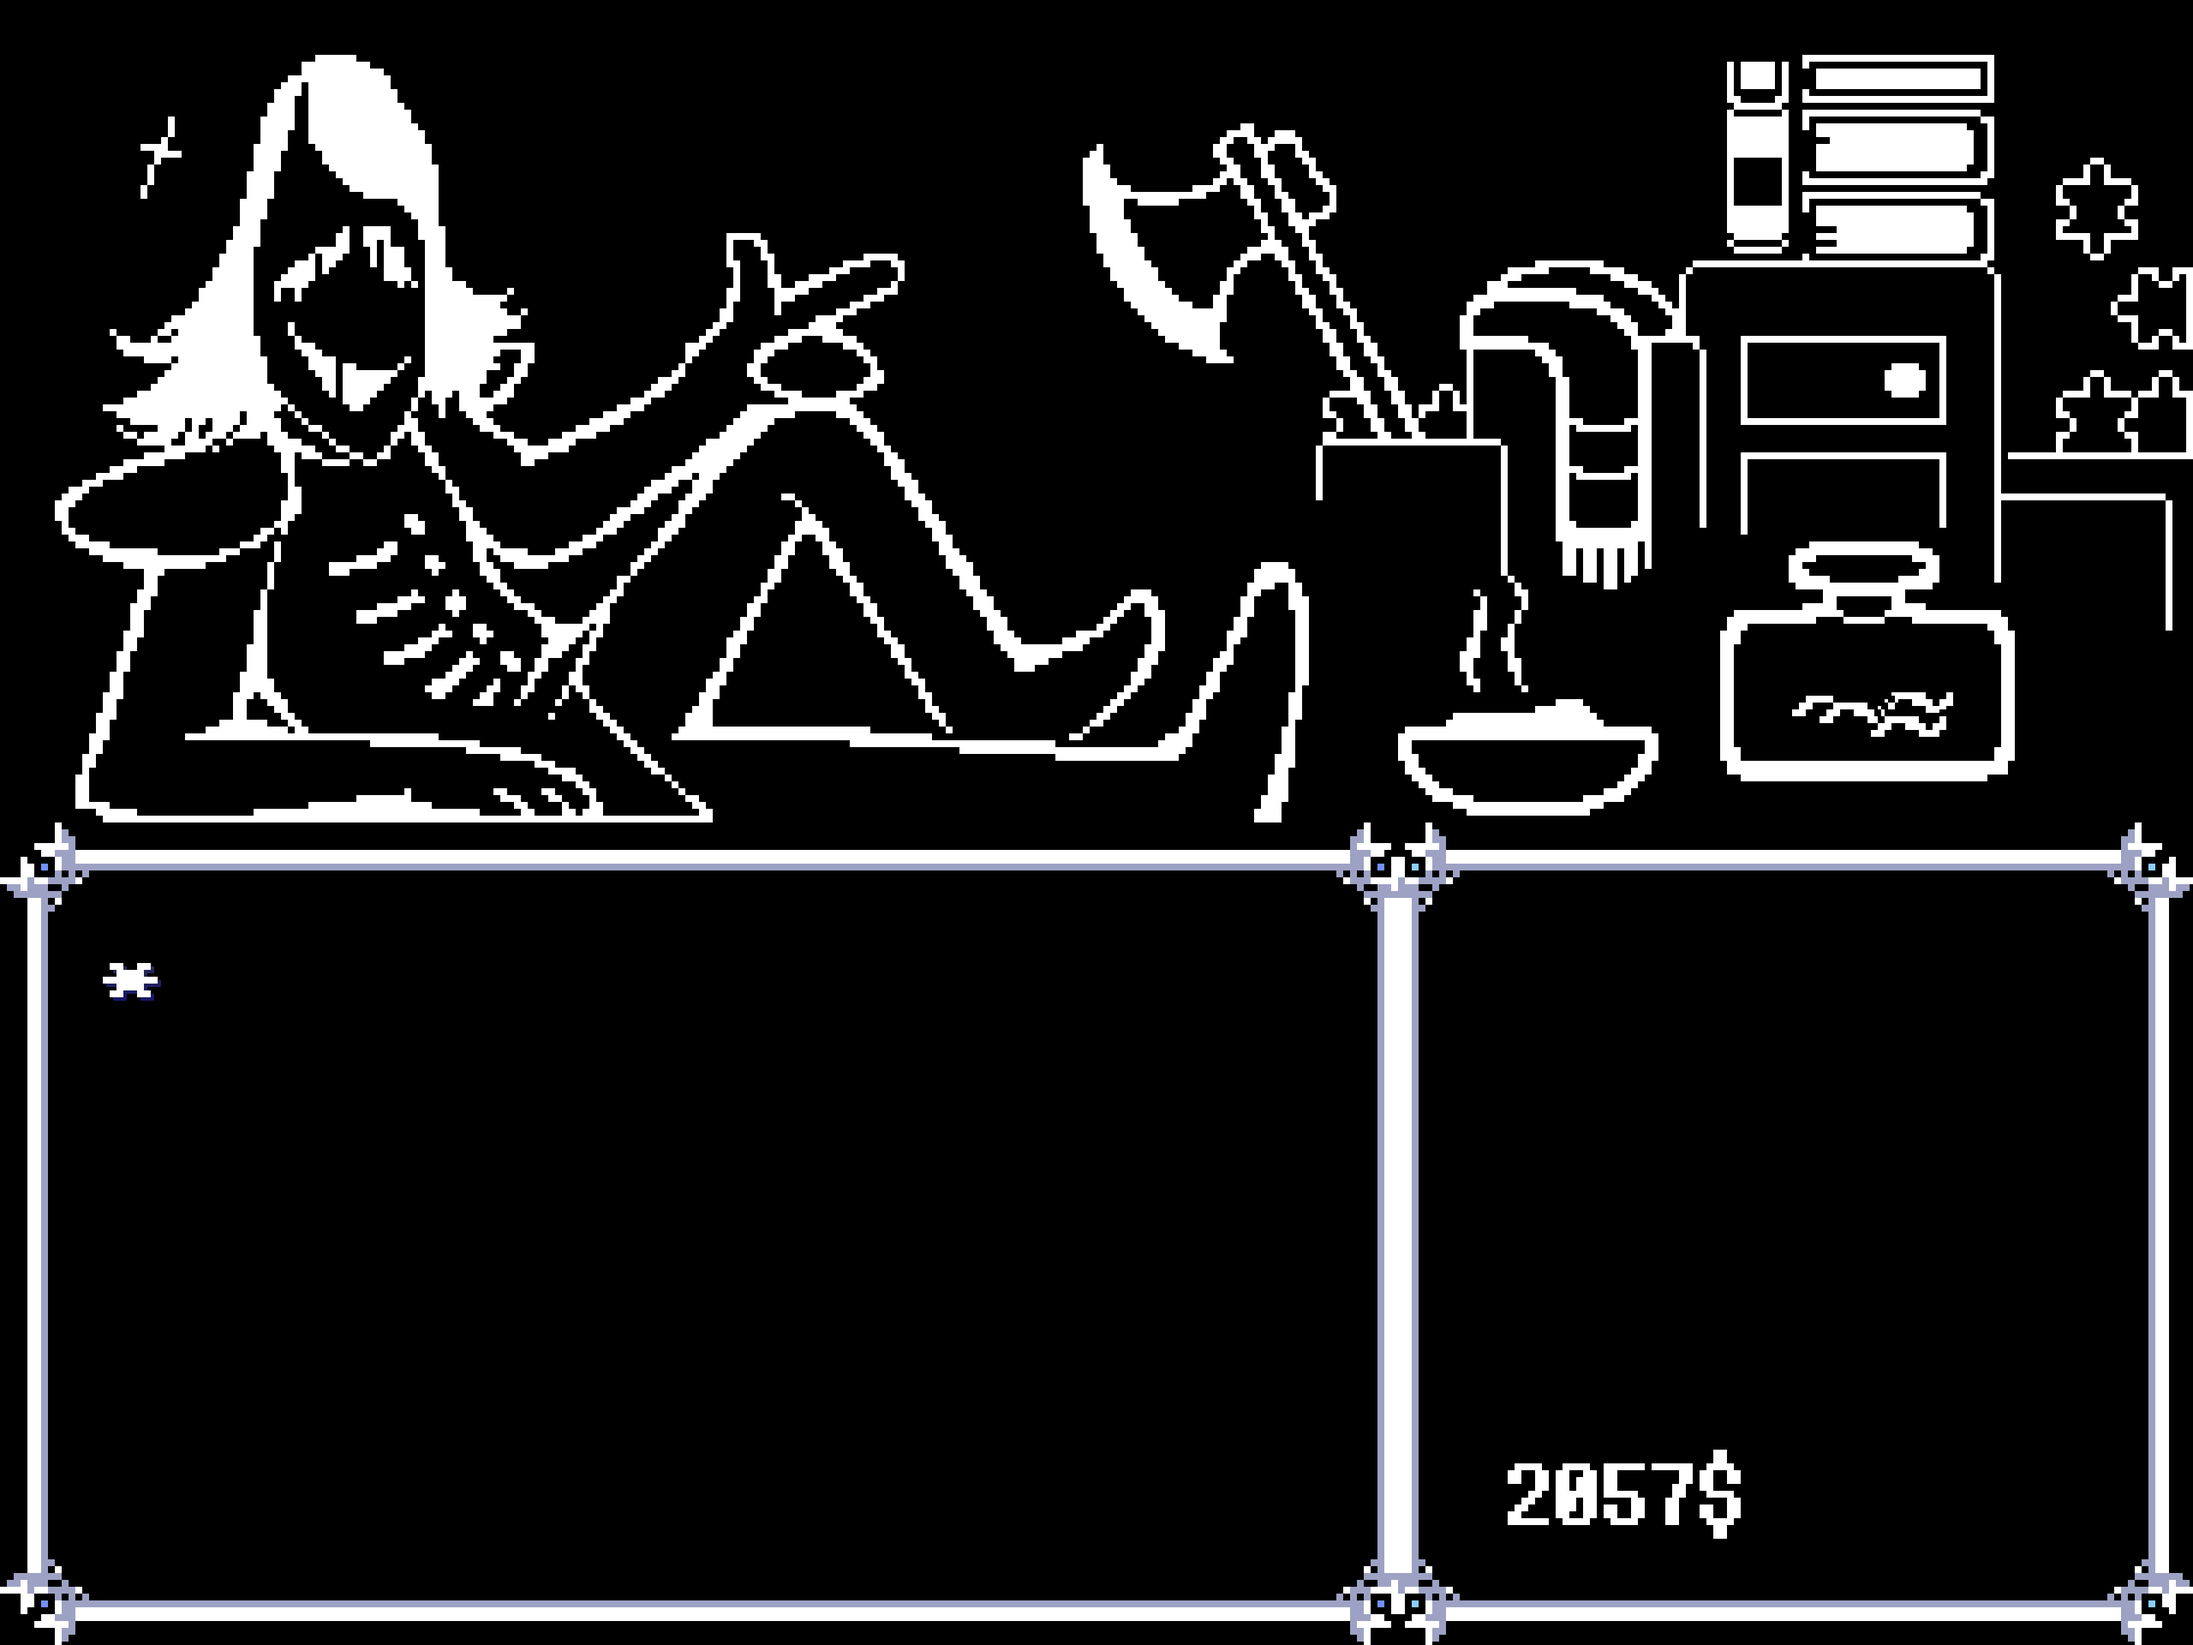
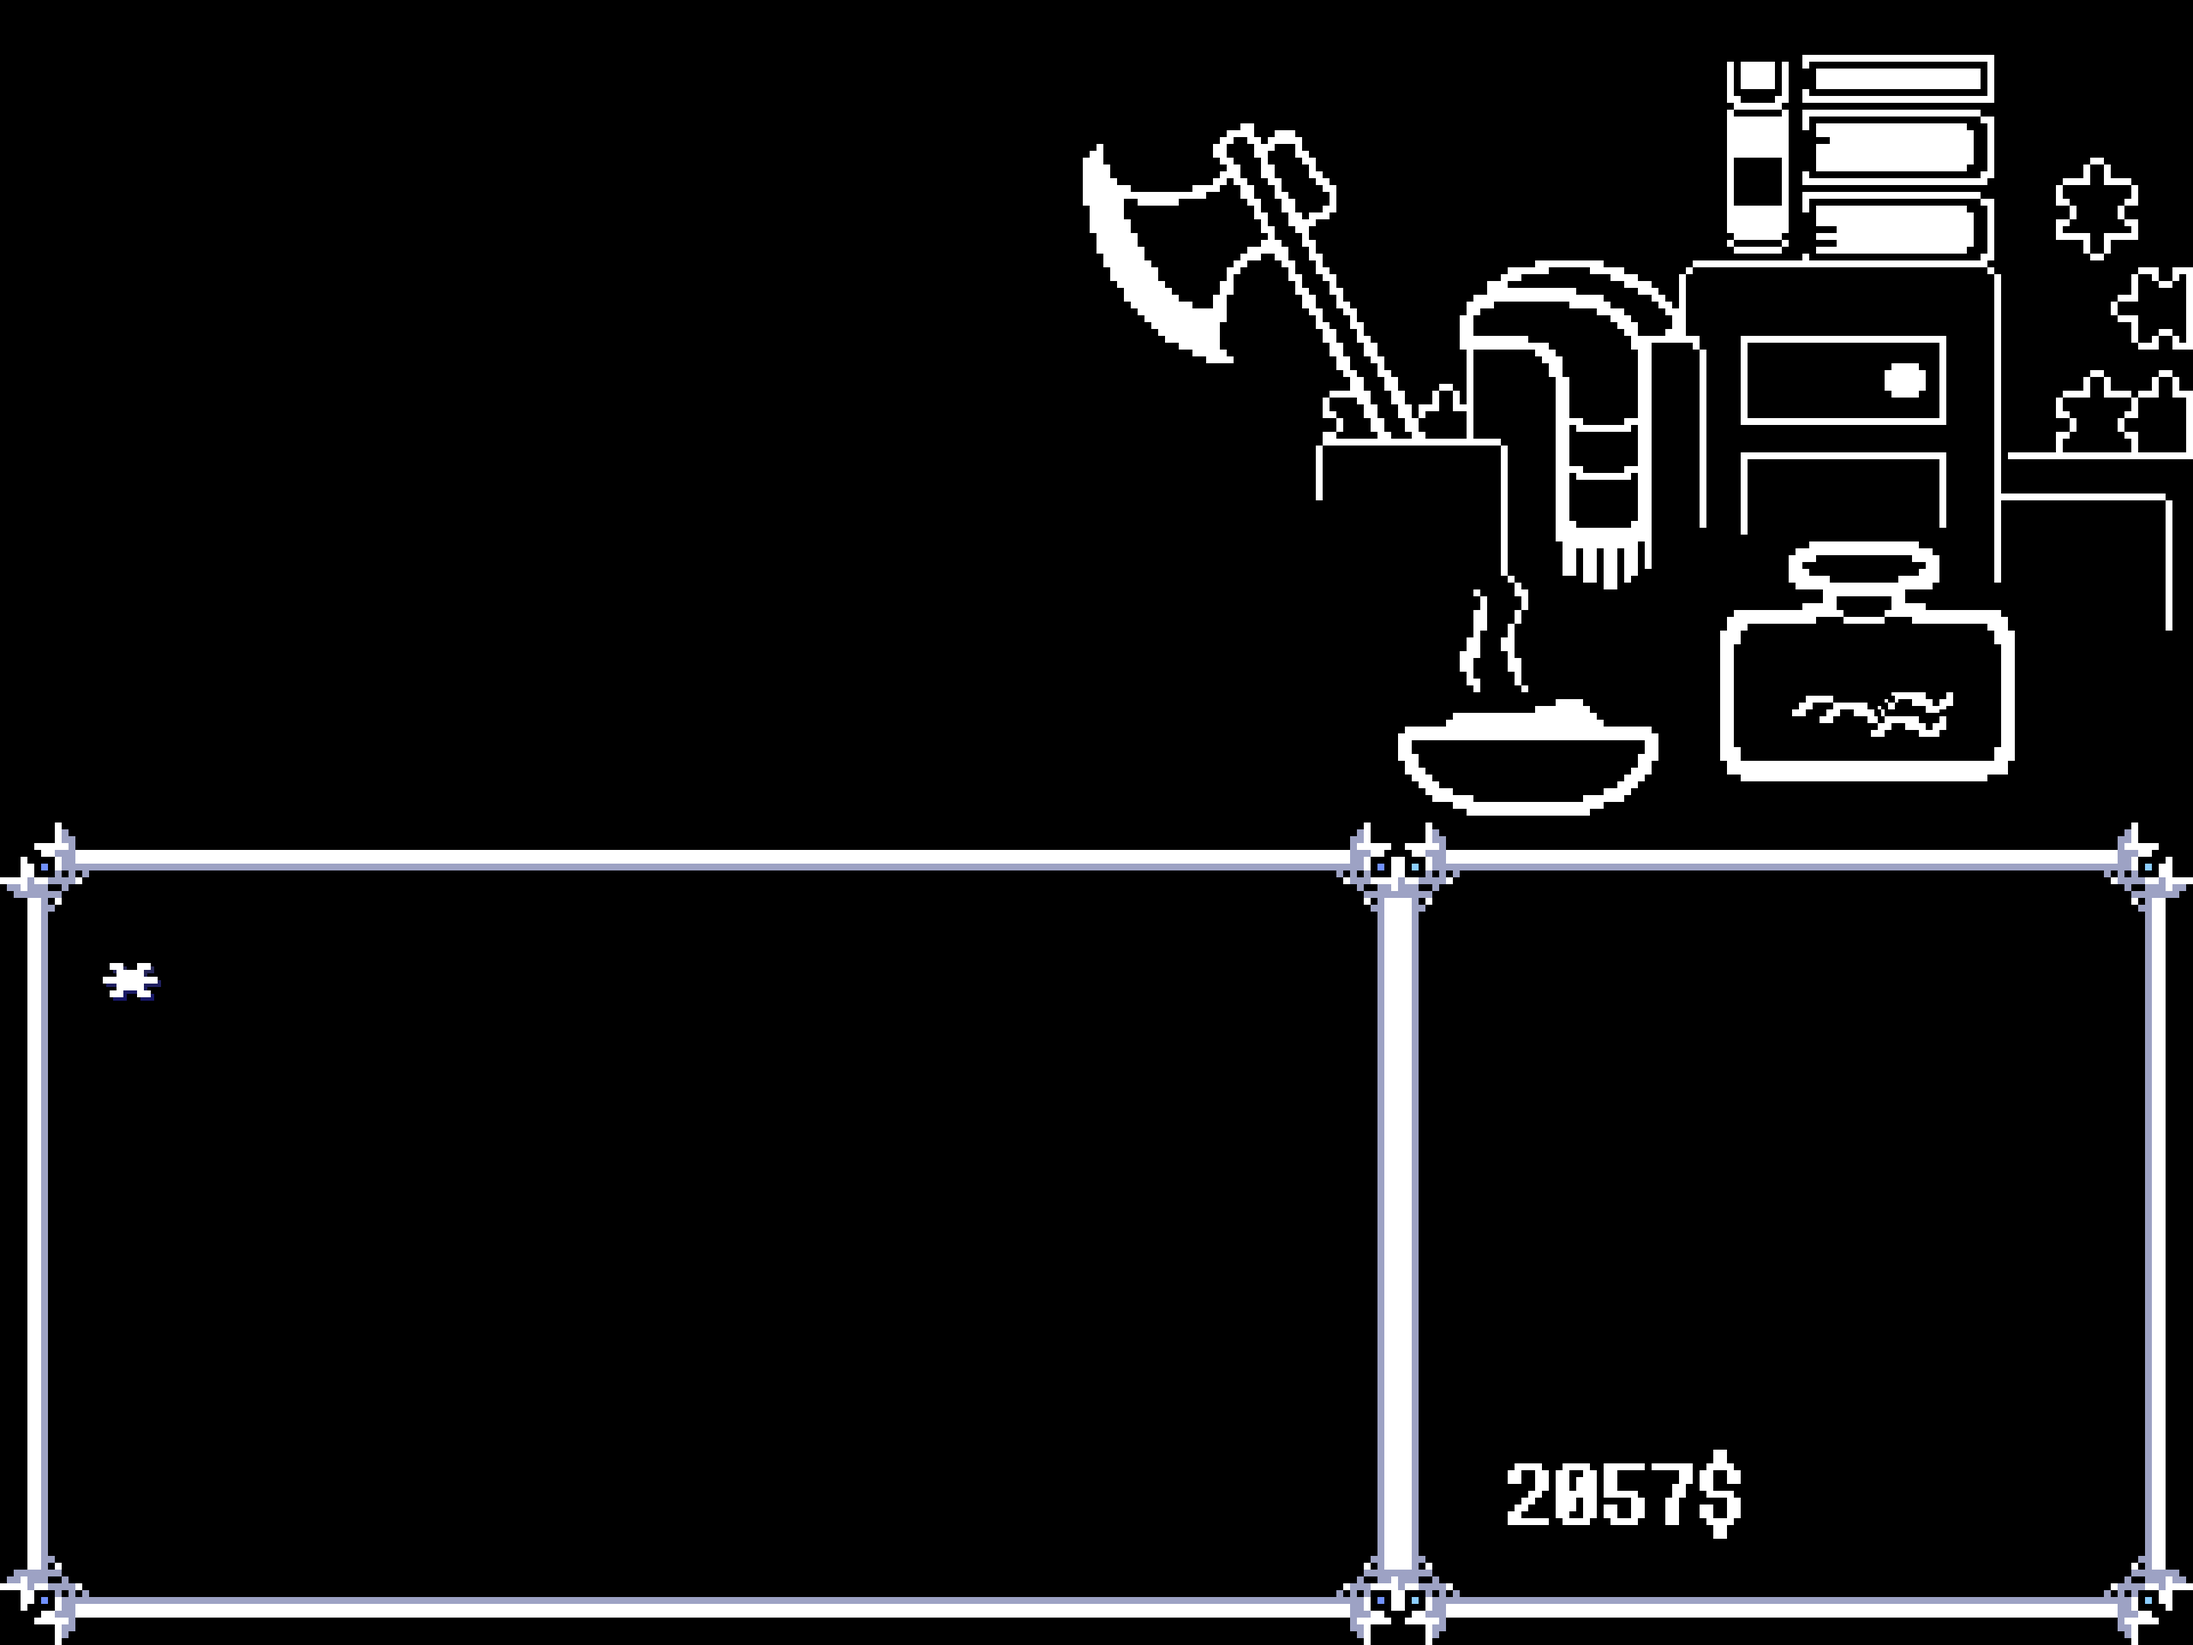
Animated shopkeeper + Expressions

diff --git a/script.js b/script.js
@@ -4,7 +4,7 @@ const ctx = canvas.getContext('2d');
 const assets = {
     images: {
         shopBg: new Image(),
-        soulImg: new Image()
+        soulImg: new Image(),
     },
     sounds: {
         textSFX: new Audio('res/snd/snd_text.wav'),
@@ -16,8 +16,18 @@ const assets = {
 let assetsLoaded = {
     shopBg: false,
     soulImg: false,
-    font: false
+    font: false,
+    shopkeeperImages: false
 };
+
+const shopkeeperImages = {}; // { expression: [frame1, frame2] }
+const expressions = ['neutral','shocked'];
+let currentExpression = 'neutral';
+let currentFrame = 0;
+let animationTimer = 0;
+
+let totalFramesToLoad = 0;
+let framesLoaded = 0;
 
 let soundEnabled = false;
 
@@ -52,6 +62,24 @@ function loadAssets() {
         checkAllAssetsLoaded();
     };
 
+    // Load shopkeeper frames
+    expressions.forEach((expr) => {
+        shopkeeperImages[expr] = [];
+        for (let i = 1; i <= 2; i++) {
+            totalFramesToLoad++;
+            const img = new Image();
+            img.src = `res/img/alix/${expr}${i}.png`;
+            img.onload = () => {
+                shopkeeperImages[expr][i - 1] = img;
+                framesLoaded++;
+                if (framesLoaded === totalFramesToLoad) {
+                    assetsLoaded.shopkeeperImages = true;
+                    checkAllAssetsLoaded();
+                }
+            };
+        }
+    });
+
     assets.font.load().then((loadedFont) => {
         document.fonts.add(loadedFont);
         assetsLoaded.font = true;
@@ -60,7 +88,12 @@ function loadAssets() {
 }
 
 function checkAllAssetsLoaded() {
-    if (assetsLoaded.shopBg && assetsLoaded.soulImg && assetsLoaded.font) {
+    if (
+        assetsLoaded.shopBg &&
+        assetsLoaded.soulImg &&
+        assetsLoaded.shopkeeperImages &&
+        assetsLoaded.font
+    ) {
         const enterBtn = document.getElementById('enterButton');
         enterBtn.style.display = 'block';
         enterBtn.classList.add('show');
@@ -72,7 +105,12 @@ function resizeCanvas() {
     canvas.width = window.innerWidth;
     canvas.height = window.innerHeight;
 
-    if (assetsLoaded.shopBg && assetsLoaded.soulImg && assetsLoaded.font) {
+    if (
+        assetsLoaded.shopBg &&
+        assetsLoaded.soulImg &&
+        assetsLoaded.font &&
+        assetsLoaded.shopkeeperImages
+    ) {
         draw();
     }
 }
@@ -109,9 +147,15 @@ let drawX = 0;
 let drawY = 0;
 
 function tryDraw() {
-    if (assetsLoaded.shopBg && assetsLoaded.soulImg && assetsLoaded.font && soundEnabled) {
-        draw();
+    if (
+        assetsLoaded.shopBg &&
+        assetsLoaded.soulImg &&
+        assetsLoaded.shopkeeperImages &&
+        assetsLoaded.font &&
+        soundEnabled
+    ) {
         startDialogue("Hi! Welcome to my website!");
+        requestAnimationFrame(animate);
     }
 }
 
@@ -198,7 +242,7 @@ function handleButtonClick(buttonLabel) {
             startDialogue("Here are the pages where I list the mods I play with!");
             break;
         case 'Talk':
-            startDialogue("Sure, what do you wanna talk about?");
+            startDialogue("Sure, what do you wanna talk about?","shocked");
             break;
         case 'Project 1':
         case 'Project 2':
@@ -283,25 +327,18 @@ function updateDialogue(timestamp) {
     if (textIndex >= flattenedCharacters.length) return;
 
     if (!lastCharTime) lastCharTime = timestamp;
-
     const timeElapsed = timestamp - lastCharTime;
 
-    let currentChar = flattenedCharacters[textIndex]?.char || '';
     let delay = typingSpeed;
-
     if (displayedText.length > 0) {
         const prevChar = displayedText[displayedText.length - 1];
-        if (['.', '!', '?'].includes(prevChar)) {
-            delay *= 12;
-        } else if ([',', ';', ':'].includes(prevChar)) {
-            delay *= 6;
-        }
+        if ([".", "!", "?"].includes(prevChar)) delay *= 12;
+        else if ([",", ";", ":"].includes(prevChar)) delay *= 6;
     }
 
     if (timeElapsed >= delay) {
-        displayedText += currentChar;
+        displayedText += flattenedCharacters[textIndex]?.char || "";
         playSound(assets.sounds.textSFX);
-
         textIndex++;
         lastCharTime = timestamp;
     }
@@ -310,23 +347,54 @@ function updateDialogue(timestamp) {
 
     if (textIndex < flattenedCharacters.length) {
         requestAnimationFrame(updateDialogue);
+    } else {
+        currentFrame = 0;
+        draw();
     }
 }
 
 function draw() {
     ctx.clearRect(0, 0, canvas.width, canvas.height);
 
-    globalScale = Math.min(canvas.width / assets.images.shopBg.width, canvas.height / assets.images.shopBg.height);
+    globalScale = Math.min(
+        canvas.width / assets.images.shopBg.width,
+        canvas.height / assets.images.shopBg.height
+    );
     drawX = (canvas.width - assets.images.shopBg.width * globalScale) / 2;
     drawY = (canvas.height - assets.images.shopBg.height * globalScale) / 2;
 
-    ctx.drawImage(assets.images.shopBg, drawX, drawY, assets.images.shopBg.width * globalScale, assets.images.shopBg.height * globalScale);
+    ctx.drawImage(
+        assets.images.shopBg,
+        drawX, drawY,
+        assets.images.shopBg.width * globalScale,
+        assets.images.shopBg.height * globalScale
+    );
 
-    if (showDialogue) {
-        drawDialogueBox(drawX + 312 * globalScale, drawY + 1474 * globalScale, 1800 * globalScale, 800 * globalScale);
+    const shopImg = shopkeeperImages[currentExpression][currentFrame];
+    if (shopImg) {
+        ctx.drawImage(
+            shopImg,
+            drawX, drawY,
+            shopImg.width * globalScale,
+            shopImg.height * globalScale
+        );
     }
 
-    drawButtons(drawX + 2400 * globalScale, drawY + 1425 * globalScale, 200 * globalScale, globalScale * 11);
+    if (showDialogue) {
+        drawDialogueBox(
+            drawX + 312 * globalScale,
+            drawY + 1474 * globalScale,
+            1800 * globalScale,
+            800 * globalScale
+        );
+    }
+
+    drawButtons(
+        drawX + 2400 * globalScale,
+        drawY + 1425 * globalScale,
+        200 * globalScale,
+        globalScale * 11
+    );
 }
 
 function precomputeLines() {
@@ -362,11 +430,14 @@ function precomputeLines() {
     });
 }
 
-function startDialogue(newText) {
+function startDialogue(newText, expression = 'neutral') {
     dialogueText = newText;
     displayedText = "";
     textIndex = 0;
     lastCharTime = 0;
+    currentExpression = expression;
+    currentFrame = 0;
+    animationTimer = 0;
     precomputeLines();
     requestAnimationFrame(updateDialogue);
 }
@@ -376,6 +447,28 @@ function playSound(sound) {
         const sfx = sound.cloneNode();
         sfx.play();
     }
+}
+
+let lastAnimTime = 0;
+
+function animate(timestamp) {
+    if (!lastAnimTime) lastAnimTime = timestamp;
+    const delta = timestamp - lastAnimTime;
+
+    // Animate shopkeeper at 2 FPS while dialogue is typing
+    if (textIndex < flattenedCharacters.length) {
+        animationTimer += delta;
+        if (animationTimer >= 250) {
+            currentFrame = 1 - currentFrame;
+            animationTimer = 0;
+        }
+    } else {
+        currentFrame = 0;
+    }
+
+    draw();
+    lastAnimTime = timestamp;
+    requestAnimationFrame(animate);
 }
 
 // Start loading assets immediately
